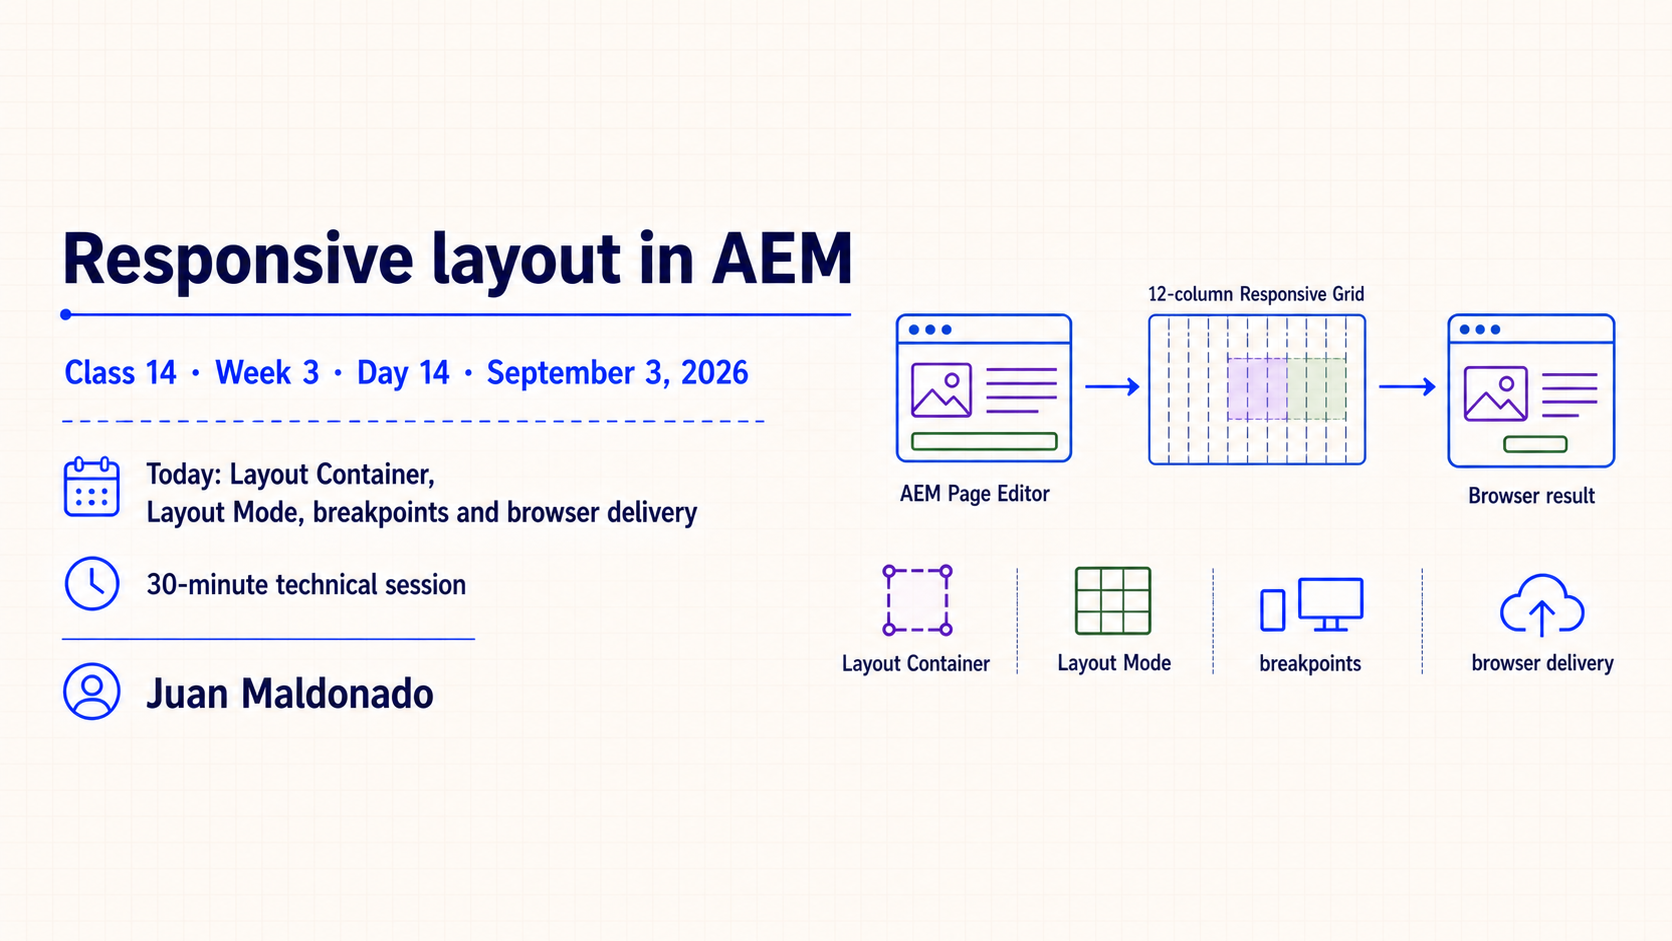
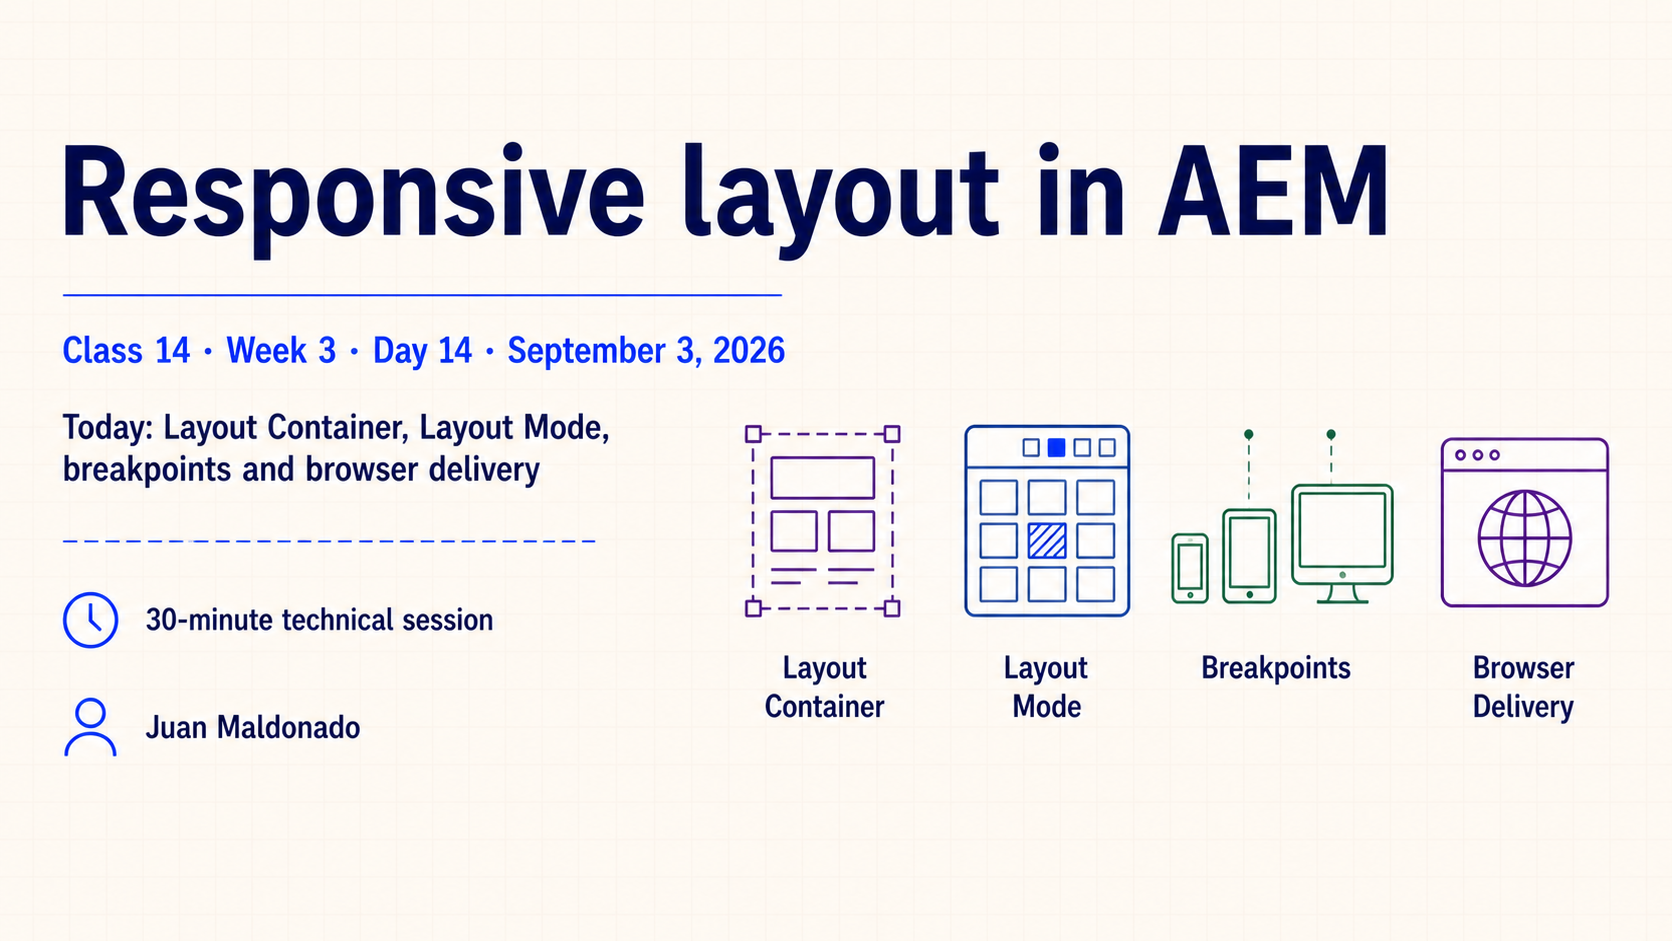
fix overviews

Changed region(s): [[0.0311, 0.1541, 0.9641, 0.7705], [0.0311, 0.5855, 0.311, 0.8013], [0.622, 0.1541, 0.8397, 0.2774]]

diff --git a/slides/lesson-17/speech.md b/slides/lesson-17/speech.md
@@ -2,9 +2,9 @@
 
 ## Slide 1: Sling Models: adaptables, injection, delegation and JSON
 
-Today we connect the Resource API from the previous class to the objects HTL actually consumes. The path on the slide starts with component content, passes through a Sling Model, and ends in rendered HTML. A second branch shows JSON, but that branch is deliberately conditional: a model must participate in an exporter contract before `.model.json` exists.
+Introduce Class 17, the 30-minute scope and the session’s three threads: adaptable choice, injection contracts and Core Component delegation.
 
-The goal is not to memorize annotations. By the end of the session, we should be able to explain why a model adapts from a Resource or a request, where every injected value comes from, what logic belongs in the model, and when delegation or Model Exporter prevents us from duplicating an existing implementation. We will begin with the role of the model itself.
+Keep the opening at overview level. The next slide establishes what a Sling Model owns before the session introduces individual annotations and export behavior.
 
 ## Slide 2: A Sling Model turns AEM context into a view contract.
 

diff --git a/slides/lesson-14/speech.md b/slides/lesson-14/speech.md
@@ -9,9 +9,9 @@
 
 ## Slide 1: Responsive layout in AEM
 
-Today we are narrowing the word responsive to the mechanisms that AEM actually gives us. This is not another general introduction to media queries. We will follow a page from the template and Layout Container, through the author’s Layout Mode choices, into the grid classes and browser requests that prove the result.
+Introduce Class 14, the 30-minute scope and the session’s four threads: Layout Container, Layout Mode, breakpoints and browser delivery.
 
-The important idea is that no single file controls the whole experience. A template enables the structure, an author chooses a composition, AEM persists that choice, client libraries implement the grid, and each component must behave inside the width it receives. By the end, you should be able to trace a layout instead of guessing which CSS rule to change. We will use the same Guide Page throughout so every diagram refers to one observable implementation.
+Keep this as orientation only. The next slide assigns responsibility across the responsive path before the session examines each mechanism.
 
 ## Slide 2: Responsiveness has several owners
 

diff --git a/slides/lesson-18/outline.md b/slides/lesson-18/outline.md
@@ -11,15 +11,15 @@
 ## Slide 1 — OSGi services, configuration and servlet boundaries
 
 **Role:** opening overview  
-**Intent:** identify the session and preview the path from a real consumer to a configured capability and the minimum delivery surface.
+**Intent:** identify the session, presenter and date while previewing the three learning threads.
 
 - Class 18 · Week 4 · Day 18 · September 9, 2026.
 - OSGi services, configuration and servlet boundaries.
-- Today: reusable capabilities, Declarative Services, typed configuration, environment values, secrets and endpoint decisions.
+- Today: reusable services, typed configuration and endpoint decisions.
 - 30-minute technical session.
 - Juan Maldonado.
 
-**Visual idea:** a Guide Card consumer calls one configured Guide URL service; the output reaches HTL or an existing exporter, while a servlet branch remains behind a decision gate.
+**Visual idea:** a strong title block with presenter and date, plus three compact visual anchors for reusable services, typed configuration and endpoint decisions.
 
 ## Slide 2 — Create a service only for a reusable capability.
 

diff --git a/slides/lesson-16/speech.md b/slides/lesson-16/speech.md
@@ -10,9 +10,9 @@
 
 ## Slide 1: Java, OSGi and Resource API foundations in AEM
 
-This week moves behind the HTL boundary. Until now, most of our evidence has lived in dialogs, repository properties, rendered markup, client libraries and browser behavior. Today we add the runtime map that explains where project Java lives, how AEM loads it and which content object it normally receives.
+Introduce Class 16, the 30-minute scope and the session’s three threads: the `core` module, the OSGi runtime and the Resource API.
 
-We will follow one path: Java source in the `core` module becomes an OSGi bundle, Apache Felix resolves the bundle, Declarative Services manages eligible components, and application code reads content through AEM or Sling abstractions. The objective is not to memorize every OSGi state. It is to know which evidence belongs to which boundary so that a successful Maven build is never mistaken for a working runtime capability.
+Keep the opening at overview level. The next slide begins the detailed source-to-runtime trace.
 
 ## Slide 2: Java crosses several boundaries before AEM can use it
 

diff --git a/slides/lesson-17/outline.md b/slides/lesson-17/outline.md
@@ -11,15 +11,15 @@
 ## Slide 1 — Sling Models: adaptables, injection, delegation and JSON
 
 **Role:** opening overview  
-**Intent:** identify the session and preview the full path from AEM context to rendered and exported output.
+**Intent:** identify the session, presenter and date while previewing the three learning threads.
 
 - Class 17 · Week 4 · Day 17 · September 8, 2026.
 - Sling Models: adaptables, injection, delegation and JSON.
-- Today: model creation, adaptable choice, injection, optionality, view contracts, delegation and Model Exporter.
+- Today: adaptable choice, injection contracts and Core Component delegation.
 - 30-minute technical session.
 - Juan Maldonado.
 
-**Visual idea:** a Guide Card resource enters one central model contract, then branches to HTL-rendered HTML and an optional JSON representation.
+**Visual idea:** a strong title block with presenter and date, plus three compact visual anchors for adaptable choice, injection contracts and Core Component delegation.
 
 ## Slide 2 — A Sling Model turns AEM context into a view contract.
 

diff --git a/slides/lesson-18/speech.md b/slides/lesson-18/speech.md
@@ -2,9 +2,9 @@
 
 ## Slide 1: OSGi services, configuration and servlet boundaries
 
-Today we continue from the Sling Model boundary. A model can prepare one component view, but shared behavior needs a different owner. The path on this cover starts with a real consumer, reaches one configured OSGi service and then stops at the smallest delivery surface that satisfies the requirement.
+Introduce Class 18, the 30-minute scope and the session’s three threads: reusable services, typed configuration and endpoint decisions.
 
-The emphasis is on restraint. We will not create a service merely to add a layer, and we will not create a servlet merely because Java can return JSON. By the end, we should be able to name the reusable capability, explain its effective configuration and justify whether HTL, a Sling Model, an existing exporter or a servlet owns the output.
+Keep the opening at overview level. The next slide starts with the decision that determines whether a service should exist at all.
 
 ## Slide 2: Create a service only for a reusable capability.
 

diff --git a/slides/lesson-16/outline.md b/slides/lesson-16/outline.md
@@ -11,15 +11,15 @@
 ## Slide 1 — Java, OSGi and Resource API foundations in AEM
 
 **Role:** opening overview  
-**Intent:** identify the session and preview the complete source-to-runtime-to-content trace.
+**Intent:** identify the session, presenter and date while previewing the three learning threads.
 
 - Class 16 · Week 4 · Day 16 · September 7, 2026.
 - Java, OSGi and Resource API foundations in AEM.
-- Today: `core`, bundles, components, services, runtime evidence and resources.
+- Today: the core module, the OSGi runtime and the Resource API.
 - 30-minute technical session.
 - Juan Maldonado.
 
-**Visual idea:** a compact path from Java source in `core` to an OSGi bundle, a managed runtime component and an AEM content resource.
+**Visual idea:** a strong title block with presenter and date, plus three compact visual anchors for the core module, the OSGi runtime and the Resource API.
 
 ## Slide 2 — Java crosses several boundaries before AEM can use it.
 

diff --git a/slides/lesson-14/outline.md b/slides/lesson-14/outline.md
@@ -11,7 +11,7 @@
 ## Slide 1 — Responsive layout in AEM
 
 **Role:** opening overview
-**Intent:** identify the session, presenter and date while previewing the AEM-specific responsive path.
+**Intent:** identify the session, presenter and date while previewing the four learning threads.
 
 - Class 14 · Week 3 · Day 14 · September 3, 2026.
 - Responsive layout in AEM.
@@ -19,7 +19,7 @@
 - 30-minute technical session.
 - Juan Maldonado.
 
-**Visual idea:** a strong title block with presenter and date, plus a compact left-to-right path from the AEM editor to responsive grid output and the browser.
+**Visual idea:** a strong title block with presenter and date, plus four compact visual anchors for Layout Container, Layout Mode, breakpoints and browser delivery.
 
 ## Slide 2 — Responsiveness has several owners.
 
